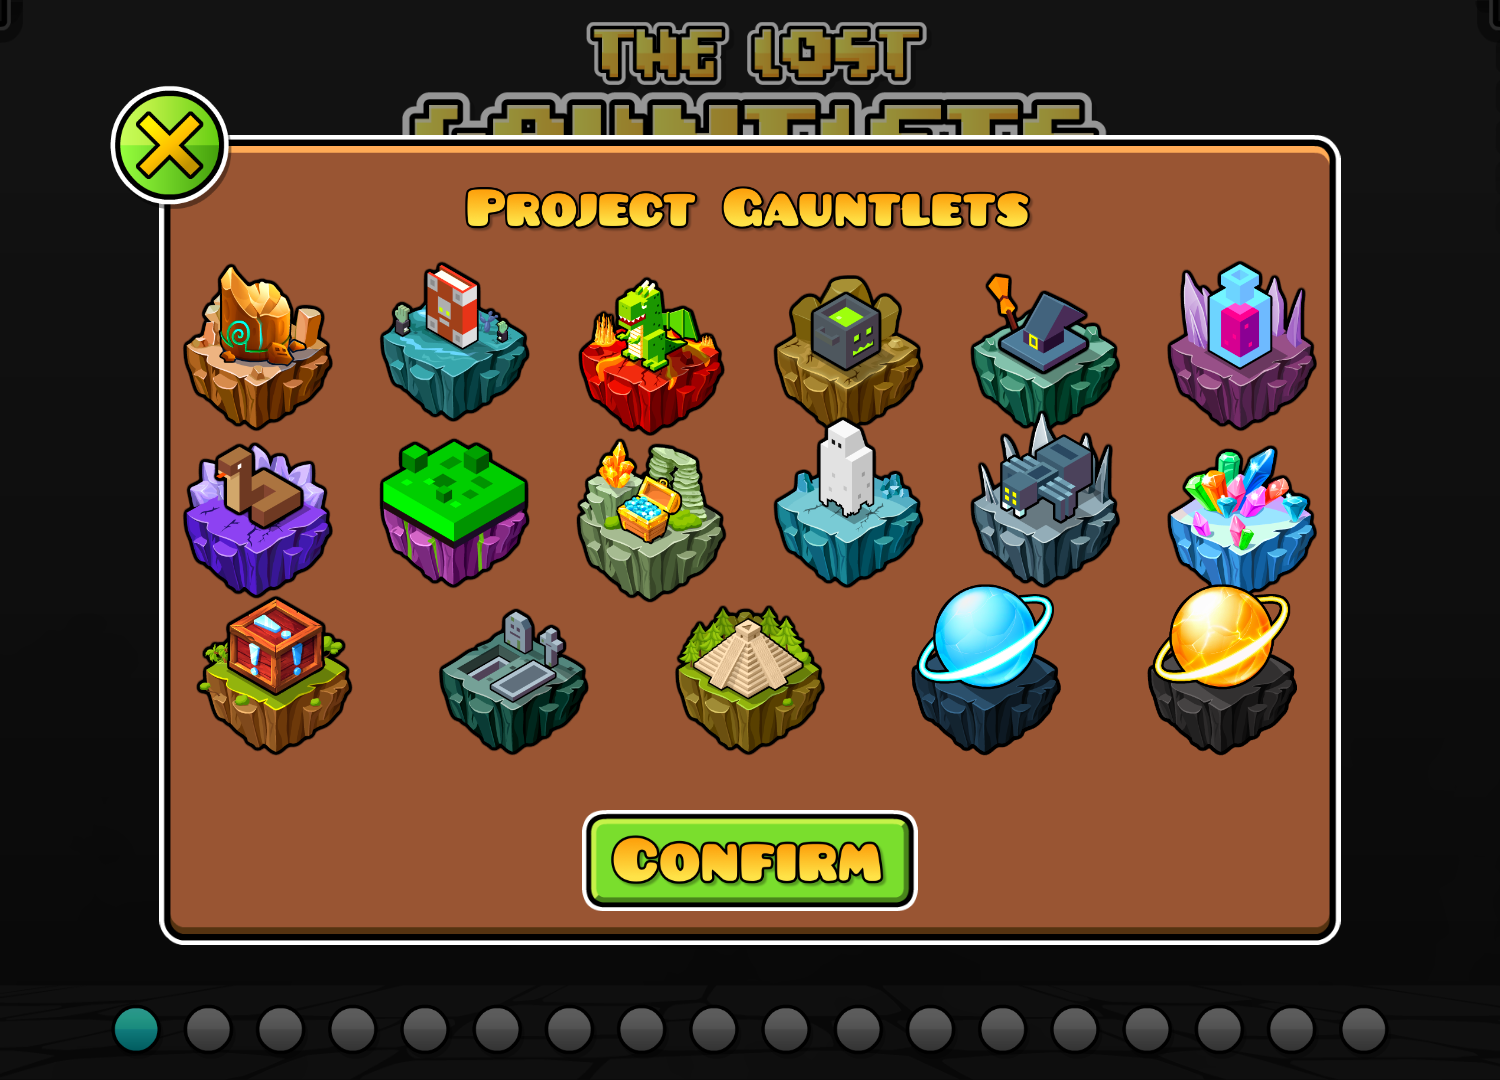
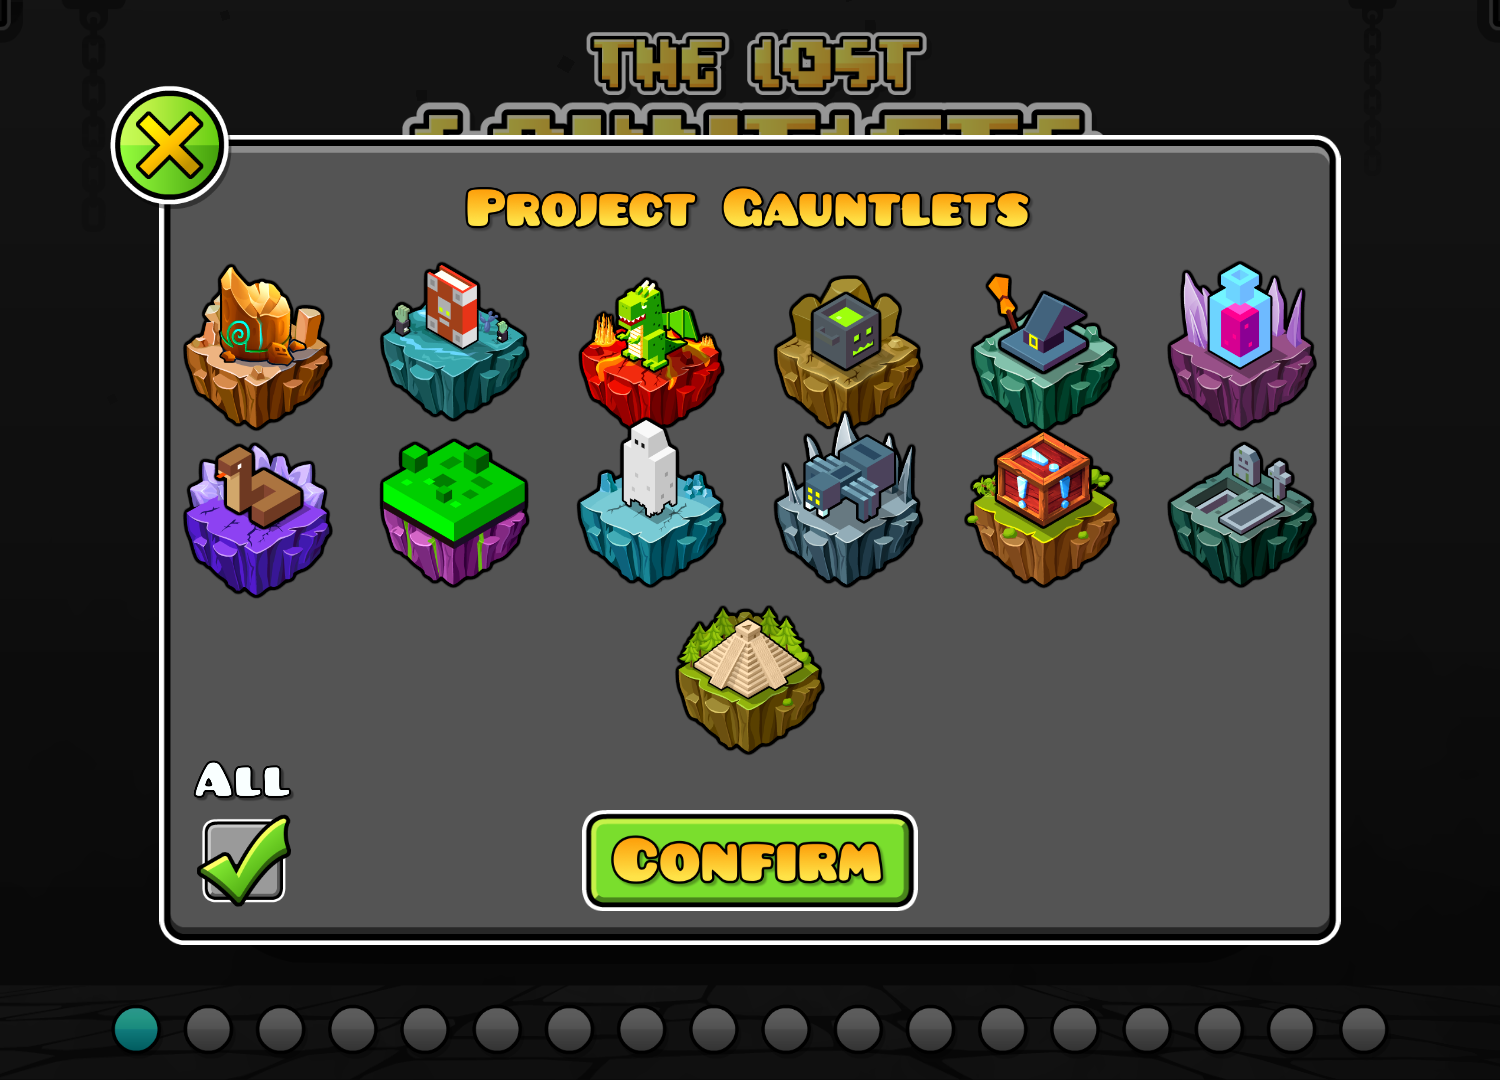
They Don't Care About Us

diff --git a/src/hooks/GauntletSelectLayer.cpp b/src/hooks/GauntletSelectLayer.cpp
@@ -1,3 +1,4 @@
+#include "../GauntletProjection.hpp"
 #include "../classes/GPGauntletsPopup.hpp"
 #include <Geode/binding/BoomScrollLayer.hpp>
 #include <Geode/binding/GameLevelManager.hpp>
@@ -8,42 +9,39 @@ using namespace geode::prelude;
 
 class $modify(GPGauntletSelectLayer, GauntletSelectLayer) {
     struct Fields {
-        CCMenuItemSpriteExtra* m_timeButton;
-        ~Fields() {
-            CC_SAFE_RELEASE(m_timeButton);
-        }
+        Ref<CCMenuItemSpriteExtra> m_timeButton;
     };
 
     bool init(int p0) {
         if (!GauntletSelectLayer::init(p0)) return false;
 
-        auto f = m_fields.self();
-        f->m_timeButton = CCMenuItemSpriteExtra::create(
-            CCSprite::createWithSpriteFrameName("GJ_timeIcon_001.png"),
-            this, menu_selector(GPGauntletSelectLayer::onProject)
-        );
-        f->m_timeButton->setID("time-button"_spr);
-        f->m_timeButton->retain();
-        auto topRightMenu = getChildByID("top-right-menu");
-        topRightMenu->addChild(f->m_timeButton);
-        topRightMenu->updateLayout();
+        if (auto topRightMenu = getChildByID("top-right-menu")) {
+            auto f = m_fields.self();
+            f->m_timeButton = CCMenuItemSpriteExtra::create(
+                CCSprite::createWithSpriteFrameName("GJ_timeIcon_001.png"),
+                this, menu_selector(GPGauntletSelectLayer::onProject)
+            );
+            f->m_timeButton->setID("time-button"_spr);
+            topRightMenu->addChild(f->m_timeButton);
+            topRightMenu->updateLayout();
+        }
 
         return true;
     }
 
     void onProject(CCObject* sender) {
-        GPGauntletsPopup::create([this, sender] {
+        GPGauntletsPopup::create([this, sender = static_cast<CCNode*>(sender)] {
             if (m_scrollLayer) {
                 m_scrollLayer->removeFromParent();
                 m_scrollLayer = nullptr;
             }
             m_leftButton->setVisible(false);
             m_rightButton->setVisible(false);
-            static_cast<CCNode*>(sender)->setVisible(false);
-            setupGauntlets();
+            sender->setVisible(false);
+            GauntletSelectLayer::setupGauntlets();
             m_leftButton->setVisible(true);
             m_rightButton->setVisible(true);
-            static_cast<CCNode*>(sender)->setVisible(true);
+            sender->setVisible(true);
         })->show();
     }
 
@@ -52,43 +50,37 @@ class $modify(GPGauntletSelectLayer, GauntletSelectLayer) {
         if (f->m_timeButton) f->m_timeButton->removeFromParentAndCleanup(false);
 
         auto glm = GameLevelManager::get();
-        auto projectedIDs = Mod::get()->getSavedValue<std::vector<bool>>("projected-ids", {});
-        projectedIDs.resize(NUM_GAUNTLETS, false);
+        auto savedGauntlets = glm->m_savedGauntlets;
         auto newSavedGauntlets = CCDictionary::create();
-        newSavedGauntlets->retain();
-        std::vector<bool> gauntletsAdded;
-        for (int i = 0; i < NUM_GAUNTLETS; i++) {
-            auto id = std::to_string(i + 1);
-            if (!glm->m_savedGauntlets->objectForKey(id) && projectedIDs[i]) {
-                gauntletsAdded.push_back(true);
-                auto gauntlet = GJMapPack::create();
+
+        for (int i = 0; i < GauntletProjection::gauntlets; i++) {
+            auto id = fmt::to_string(i + 1);
+            auto gauntlet = static_cast<GJMapPack*>(savedGauntlets->objectForKey(id));
+            if (!gauntlet && GauntletProjection::projectedIDs[i]) {
+                gauntlet = GJMapPack::create();
                 gauntlet->m_packID = i + 1;
                 gauntlet->m_levels = CCArray::create();
                 gauntlet->m_levels->retain();
-                glm->m_savedGauntlets->setObject(gauntlet, id);
+                gauntlet->m_isGauntlet = true;
             }
-            else gauntletsAdded.push_back(false);
-            if (glm->m_savedGauntlets->objectForKey(id)) newSavedGauntlets->setObject(glm->m_savedGauntlets->objectForKey(id), id);
+            if (gauntlet) newSavedGauntlets->setObject(gauntlet, id);
         }
 
-        glm->m_savedGauntlets->release();
         glm->m_savedGauntlets = newSavedGauntlets;
 
         GauntletSelectLayer::setupGauntlets();
 
-        for (int i = 0; i < NUM_GAUNTLETS; i++) {
-            if (gauntletsAdded[i]) glm->m_savedGauntlets->removeObjectForKey(std::to_string(i + 1));
-        }
-        
-        if (glm->m_savedGauntlets->count() > 0) {
-            if (auto topRightMenu = getChildByID("top-right-menu"); topRightMenu && f->m_timeButton) {
-                topRightMenu->addChild(f->m_timeButton);
-                topRightMenu->updateLayout();
-            }
+        glm->m_savedGauntlets = savedGauntlets;
+
+        if (auto topRightMenu = getChildByID("top-right-menu")) {
+            if (newSavedGauntlets->count() > 0 && f->m_timeButton) topRightMenu->addChild(f->m_timeButton);
+            topRightMenu->updateLayout();
         }
     }
 
     void onPlay(CCObject* sender) {
-        if (GameLevelManager::get()->m_savedGauntlets->objectForKey(std::to_string(sender->getTag()))) GauntletSelectLayer::onPlay(sender);
+        if (GameLevelManager::get()->m_savedGauntlets->objectForKey(fmt::to_string(sender->getTag()))) {
+            GauntletSelectLayer::onPlay(sender);
+        }
     }
 };

diff --git a/src/classes/GPGauntletsPopup.cpp b/src/classes/GPGauntletsPopup.cpp
@@ -1,15 +1,17 @@
 #include "GPGauntletsPopup.hpp"
 #include "TableNode.hpp"
+#include "../GauntletProjection.hpp"
+#include <algorithm>
 #include <Geode/binding/ButtonSprite.hpp>
 #include <Geode/binding/GameLevelManager.hpp>
 #include <Geode/binding/GauntletSprite.hpp>
-#include <Geode/loader/Mod.hpp>
+#include <Geode/binding/GJMapPack.hpp>
 
 using namespace geode::prelude;
 
 GPGauntletsPopup* GPGauntletsPopup::create(GauntletCallback callback) {
     auto ret = new GPGauntletsPopup();
-    if (ret->initAnchored(350.0f, 270.0f, std::move(callback))) {
+    if (ret->initAnchored(350.0f, 270.0f, std::move(callback), "GJ_square05.png")) {
         ret->autorelease();
         return ret;
     }
@@ -26,12 +28,12 @@ bool GPGauntletsPopup::setup(GauntletCallback callback) {
     m_bgSprite->setID("background");
     m_closeBtn->setID("close-button");
 
-    m_enabledGauntlets = Mod::get()->getSavedValue<std::vector<bool>>("projected-ids", {});
-    m_enabledGauntlets.resize(NUM_GAUNTLETS, false);
+    m_enabledGauntlets = GauntletProjection::projectedIDs;
 
     auto savedGauntlets = GameLevelManager::get()->m_savedGauntlets;
-    auto rows = (NUM_GAUNTLETS + 5 - savedGauntlets->count()) / 6;
-    m_size = CCSize { 350.0f, 150.0f + rows * 30.0f };
+    auto rows = (GauntletProjection::gauntlets + 5 - savedGauntlets->count()) / 6;
+    m_size.width = 350.0f;
+    m_size.height = 150.0f + rows * 30.0f;
     m_mainLayer->setContentSize(m_size);
     m_mainLayer->updateLayout();
 
@@ -45,29 +47,59 @@ bool GPGauntletsPopup::setup(GauntletCallback callback) {
     table->setID("gauntlet-buttons");
     m_mainLayer->addChild(table);
 
-    for (int i = 0; i < NUM_GAUNTLETS; i++) {
-        if (savedGauntlets->objectForKey(std::to_string(i + 1))) continue;
+    m_gauntletSprites = CCDictionary::create();
 
-        auto gauntletSprite = GauntletSprite::create((GauntletType)(i + 1), false);
+    for (int i = 0; i < GauntletProjection::gauntlets; i++) {
+        auto index = i + 1;
+        if (savedGauntlets->objectForKey(fmt::to_string(index))) {
+            m_enabledGauntlets[i] = true;
+            continue;
+        }
+
+        auto gauntletSprite = GauntletSprite::create((GauntletType)index, false);
         gauntletSprite->setScale(0.7f);
         auto innerSprite = gauntletSprite->getChildByType<CCSprite>(0);
         innerSprite->setColor(m_enabledGauntlets[i] ? ccColor3B { 255, 255, 255 } : ccColor3B { 125, 125, 125 });
+        m_gauntletSprites->setObject(innerSprite, i);
+
         auto gauntletButton = CCMenuItemExt::createSpriteExtra(gauntletSprite, [this, i, innerSprite](auto) {
             m_enabledGauntlets[i] = !m_enabledGauntlets[i];
             innerSprite->setColor(m_enabledGauntlets[i] ? ccColor3B { 255, 255, 255 } : ccColor3B { 125, 125, 125 });
+            m_toggleAllButton->toggle(std::ranges::all_of(m_enabledGauntlets, [](bool v) {
+                return v;
+            }));
         });
-        gauntletButton->setID(fmt::format("gauntlet-button-{}", i + 1));
+        gauntletButton->setID(fmt::format("gauntlet-button-{}", index));
         table->addButton(gauntletButton);
     }
 
     table->updateAllLayouts();
 
-    auto confirmButton = CCMenuItemExt::createSpriteExtra(ButtonSprite::create("Confirm", "goldFont.fnt", "GJ_button_01.png", 0.8f),
-        [this, callback = std::move(callback)](auto) {
-            Mod::get()->setSavedValue("projected-ids", m_enabledGauntlets);
-            callback();
-            onClose(nullptr);
-        });
+    m_toggleAllButton = CCMenuItemExt::createTogglerWithStandardSprites(0.8f, [this](CCMenuItemToggler* sender) {
+        auto toggled = !sender->m_toggled;
+        for (auto [i, sprite] : CCDictionaryExt<intptr_t, CCNodeRGBA*>(m_gauntletSprites)) {
+            m_enabledGauntlets[i] = toggled;
+            sprite->setColor(toggled ? ccColor3B { 255, 255, 255 } : ccColor3B { 125, 125, 125 });
+        }
+    });
+    m_toggleAllButton->setPosition({ 25.0f, 25.0f });
+    m_toggleAllButton->toggle(std::ranges::all_of(m_enabledGauntlets, [](bool v) {
+        return v;
+    }));
+    m_toggleAllButton->setID("toggle-all-button");
+    m_buttonMenu->addChild(m_toggleAllButton);
+
+    auto toggleAllLabel = CCLabelBMFont::create("All", "bigFont.fnt");
+    toggleAllLabel->setPosition({ 25.0f, 50.0f });
+    toggleAllLabel->setScale(0.5f);
+    toggleAllLabel->setID("toggle-all-label");
+    m_mainLayer->addChild(toggleAllLabel);
+
+    auto confirmButton = CCMenuItemExt::createSpriteExtra(ButtonSprite::create("Confirm", 0.8f), [this, callback = std::move(callback)](auto) {
+        GauntletProjection::projectedIDs = m_enabledGauntlets;
+        callback();
+        onClose(nullptr);
+    });
     confirmButton->setPosition({ 175.0f, 25.0f });
     confirmButton->setID("confirm-button");
     m_buttonMenu->addChild(confirmButton);

diff --git a/src/classes/TableNode.cpp b/src/classes/TableNode.cpp
@@ -14,11 +14,10 @@ TableNode* TableNode::create(int columns, int rows) {
 }
 
 bool TableNode::init(int columns, int rows) {
-    if (!CCNode::init()) return false;
+    if (!CCLayer::init()) return false;
 
-    setAnchorPoint({ 0.5f, 0.5f });
+    ignoreAnchorPointForPosition(false);
     m_menus = CCArray::create();
-    m_menus->retain();
     m_columns = columns;
     m_rows = rows;
 
@@ -44,11 +43,10 @@ void TableNode::setRowHeight(float rowHeight) {
     }
 }
 
-void TableNode::setRowPrefix(const std::string& rowPrefix) {
+void TableNode::setRowPrefix(std::string_view rowPrefix) {
     m_rowPrefix = rowPrefix;
     for (int i = 0; i < m_menus->count(); i++) {
-        auto menu = static_cast<CCNode*>(m_menus->objectAtIndex(i));
-        menu->setID(fmt::format("{}-{}", rowPrefix, i + 1));
+        static_cast<CCNode*>(m_menus->objectAtIndex(i))->setID(fmt::format("{}-{}", rowPrefix, i + 1));
     }
 }
 
@@ -68,11 +66,8 @@ void TableNode::addButton(CCMenuItem* button) {
         menu->setID(fmt::format("{}-{}", m_rowPrefix, m_menus->count() + 1));
         addChild(menu);
         m_menus->addObject(menu);
-    } else menu = static_cast<CCNode*>(m_menus->objectAtIndex(m_menus->count() - 1));
+    }
+    else menu = static_cast<CCNode*>(m_menus->objectAtIndex(m_menus->count() - 1));
 
     menu->addChild(button);
-}
-
-TableNode::~TableNode() {
-    CC_SAFE_RELEASE(m_menus);
 }

diff --git a/src/GauntletProjection.cpp b/src/GauntletProjection.cpp
@@ -1,0 +1,31 @@
+#include "GauntletProjection.hpp"
+#include <Geode/loader/Mod.hpp>
+
+using namespace geode::prelude;
+
+std::vector<bool> GauntletProjection::projectedIDs;
+
+$on_mod(Loaded) {
+    auto mod = Mod::get();
+    auto& saveContainer = mod->getSaveContainer();
+    auto ids = saveContainer.get("projected-ids").andThen([](matjson::Value& v) {
+        return v.asArray();
+    });
+    if (ids.isOkAnd([](const std::vector<matjson::Value>& arr) {
+        for (auto& v : arr) {
+            if (!v.isBool()) return false;
+        }
+        return true;
+    })) {
+        ids.unwrap().resize(GauntletProjection::gauntlets, false);
+    }
+    else {
+        saveContainer.set("projected-ids", std::vector<bool>(GauntletProjection::gauntlets, false));
+    }
+
+    GauntletProjection::projectedIDs = mod->getSavedValue<std::vector<bool>>("projected-ids");
+}
+
+$on_mod(DataSaved) {
+    Mod::get()->setSavedValue("projected-ids", GauntletProjection::projectedIDs);
+}

diff --git a/src/classes/TableNode.hpp b/src/classes/TableNode.hpp
@@ -1,8 +1,9 @@
 #include <Geode/ui/Layout.hpp>
+#include <Geode/utils/cocos.hpp>
 
-class TableNode : public cocos2d::CCNode {
+class TableNode : public cocos2d::CCLayer {
 protected:
-    cocos2d::CCArray* m_menus;
+    geode::Ref<cocos2d::CCArray> m_menus;
     geode::AxisLayout* m_columnLayout;
     geode::AxisLayout* m_rowLayout;
     int m_columns;
@@ -17,9 +18,7 @@ public:
     void setColumnLayout(geode::AxisLayout*);
     void setRowLayout(geode::AxisLayout*);
     void setRowHeight(float);
-    void setRowPrefix(const std::string&);
+    void setRowPrefix(std::string_view);
     void updateAllLayouts();
     void addButton(cocos2d::CCMenuItem*);
-
-    ~TableNode() override;
 };

diff --git a/src/classes/GPGauntletsPopup.hpp b/src/classes/GPGauntletsPopup.hpp
@@ -1,12 +1,12 @@
 #include <Geode/ui/Popup.hpp>
 
-#define NUM_GAUNTLETS 54
-
 typedef std::function<void()> GauntletCallback;
 
 class GPGauntletsPopup : public geode::Popup<GauntletCallback> {
 protected:
     std::vector<bool> m_enabledGauntlets;
+    geode::Ref<cocos2d::CCDictionary> m_gauntletSprites;
+    CCMenuItemToggler* m_toggleAllButton;
 
     bool setup(GauntletCallback) override;
 public:

diff --git a/src/GauntletProjection.hpp b/src/GauntletProjection.hpp
@@ -1,0 +1,7 @@
+#include <vector>
+
+class GauntletProjection {
+public:
+    constexpr static int gauntlets = 54;
+    static std::vector<bool> projectedIDs;
+};

diff --git a/README.md b/README.md
@@ -7,5 +7,5 @@ Show gauntlets before they're created.
 ## Gallery
 ![Projection Popup](./resources/projection-popup.png)
 
-# License
-This mod is licensed under the [MIT License](./LICENSE).
+## License
+This mod is licensed under the [MIT License](https://github.com/hiimjasmine00/GauntletProjection/blob/master/LICENSE).

diff --git a/about.md b/about.md
@@ -6,3 +6,6 @@ Show gauntlets before they're created.
 
 ## Gallery
 ![Projection Popup](hiimjustin000.gauntlet_projection/projection-popup.png?width=300)
+
+## License
+This mod is licensed under the [MIT License](https://github.com/hiimjasmine00/GauntletProjection/blob/master/LICENSE).

diff --git a/changelog.md b/changelog.md
@@ -1,4 +1,8 @@
 # Gauntlet Projection Changelog
+## v1.0.9 (2025-10-12)
+- Added a "Toggle All" button to enable or disable all gauntlets at once
+- Changed the projection popup background from brown to gray
+
 ## v1.0.8 (2025-06-23)
 - Ported to Geode v4.6.1
 
